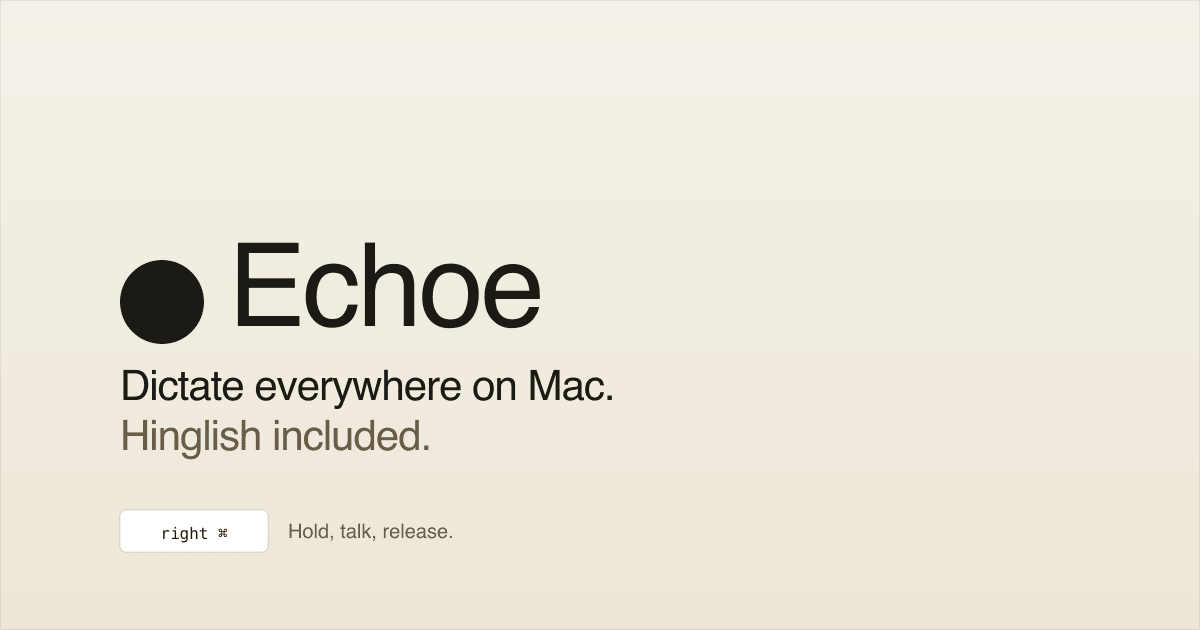
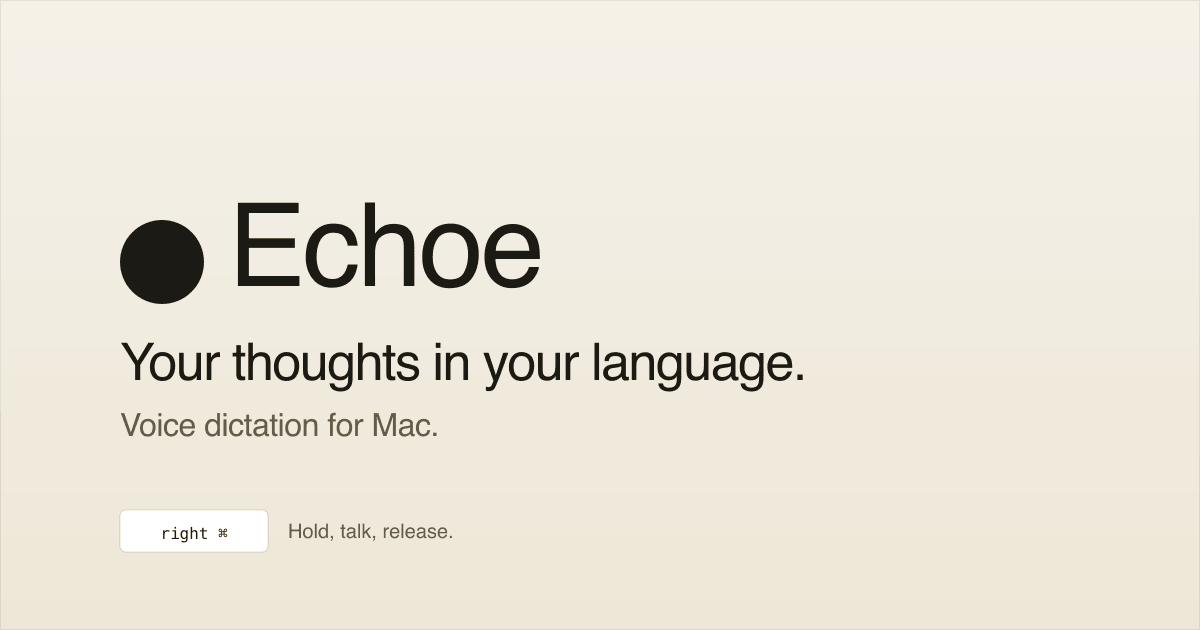
feat: lock canonical tagline + UI polish + drop FAQ
- Tagline "Your thoughts in your language." threaded through <title>,
  OG/Twitter title + description, OG image (regenerated).
- Hero H2 second clause swapped to the canonical tagline.
- Eyebrow + footer keep "Don't whisper..." as brand flavor.
- Pricing: add Pro Weekly tier (Free → Weekly → Monthly → Yearly).
- Mechanic + Pricing: explicit responsive grids prevent orphaned 4th
  cards. Pricing is 4-up at desktop, 2x2 at tablet, stacked on mobile.
- Card border bumped to --hairline-stronger; Card bg → --ivory so
  cards contrast with the parchment section.
- Drop FAQ section for now (component kept in Rest.jsx for restore).

Changed region(s): [[0.0925, 0.3016, 0.6783, 0.6333], [0.0925, 0.6635, 0.37, 0.7238]]

diff --git a/index.html b/index.html
@@ -3,7 +3,7 @@
 <head>
   <meta charset="utf-8">
   <meta name="viewport" content="width=device-width, initial-scale=1, viewport-fit=cover">
-  <title>Echoe. Dictate everywhere on Mac. Hinglish included.</title>
+  <title>Echoe — Your thoughts in your language. Voice dictation for Mac.</title>
   <meta name="description" content="A voice dictation app for Mac that doesn't auto-translate you to English. Hold right ⌘, talk, let go. Slack, Linear, Gmail, anywhere you type.">
 
   <link rel="canonical" href="https://echoeapp.com/">
@@ -11,16 +11,16 @@
 
   <meta property="og:type" content="website">
   <meta property="og:url" content="https://echoeapp.com/">
-  <meta property="og:title" content="Echoe. Dictate everywhere on Mac. Hinglish included.">
-  <meta property="og:description" content="A voice dictation app for Mac that doesn't auto-translate you to English. Hold right ⌘, talk, let go.">
+  <meta property="og:title" content="Echoe — Your thoughts in your language.">
+  <meta property="og:description" content="Your thoughts in your language. Voice dictation for Mac.">
   <meta property="og:image" content="https://echoeapp.com/og-image.png">
   <meta property="og:image:width" content="1200">
   <meta property="og:image:height" content="630">
 
   <meta name="twitter:card" content="summary_large_image">
   <meta name="twitter:url" content="https://echoeapp.com/">
-  <meta name="twitter:title" content="Echoe. Dictate everywhere on Mac. Hinglish included.">
-  <meta name="twitter:description" content="A voice dictation app for Mac that doesn't auto-translate you to English. Hold right ⌘, talk, let go.">
+  <meta name="twitter:title" content="Echoe — Your thoughts in your language.">
+  <meta name="twitter:description" content="Your thoughts in your language. Voice dictation for Mac.">
   <meta name="twitter:image" content="https://echoeapp.com/og-image.png">
 
   <style>
@@ -33,6 +33,27 @@
     @media (max-width: 720px) { section { padding: 72px 0; } }
     .container { width: 100%; max-width: 1180px; margin: 0 auto; padding: 0 32px; }
     @media (max-width: 720px) { .container { padding: 0 22px; } }
+
+    /* 2x2 on desktop, 1 col on mobile. Prevents an orphaned 4th card. */
+    .mechanic-grid {
+      display: grid; gap: 16px;
+      grid-template-columns: repeat(2, minmax(0, 1fr));
+    }
+    @media (max-width: 720px) {
+      .mechanic-grid { grid-template-columns: 1fr; }
+    }
+
+    /* 4-up on desktop, 2x2 on tablet, stacked on mobile. */
+    .pricing-grid {
+      display: grid; gap: 16px;
+      grid-template-columns: repeat(4, minmax(0, 1fr));
+    }
+    @media (max-width: 1080px) {
+      .pricing-grid { grid-template-columns: repeat(2, minmax(0, 1fr)); }
+    }
+    @media (max-width: 540px) {
+      .pricing-grid { grid-template-columns: 1fr; }
+    }
 
     .eyebrow {
       font: 500 11px/1.4 var(--font-ui); letter-spacing: 0.14em;

diff --git a/src/components/Rest.jsx b/src/components/Rest.jsx
@@ -17,10 +17,7 @@ export const MechanicSectionEN = () => (
         </p>
       </div>
 
-      <div style={{
-        marginTop: 56, display: 'grid',
-        gridTemplateColumns: 'repeat(auto-fit, minmax(280px, 1fr))', gap: 16,
-      }}>
+      <div className="mechanic-grid" style={{ marginTop: 56 }}>
         <Card>
           <div className="eyebrow" style={{ color: 'var(--dust)', marginBottom: 16 }}>Step 01</div>
           <div style={{ font: '500 22px/1.25 var(--font-ui)', color: 'var(--ink)', letterSpacing: '-0.015em', marginBottom: 14 }}>Hold a hotkey.</div>
@@ -83,9 +80,10 @@ export const MechanicSectionEN = () => (
 );
 
 const PRICES_EN = [
-  { id: 'free',  label: 'Free',          price: '₹0',     suffix: '',         tag: '5 dictations a day',         blurb: 'Enough to know whether Echoe is for you.' },
-  { id: 'month', label: 'Pro · Monthly', price: '₹399',   suffix: '/ month',  tag: '₹13 / day. Less than a chai.', blurb: 'The default. For anyone using Echoe daily.', highlight: true },
-  { id: 'year',  label: 'Pro · Yearly',  price: '₹3,999', suffix: '/ year',   tag: 'Roughly two months free',    blurb: 'Best value, billed once.' },
+  { id: 'free',  label: 'Free',          price: '₹0',     suffix: '',         tag: '5 dictations a day',           blurb: 'Enough to know whether Echoe is for you.' },
+  { id: 'week',  label: 'Pro · Weekly',  price: '₹100',   suffix: '/ week',   tag: 'Try it now',                    blurb: 'Full Pro, billed weekly. The cheapest way to see if it sticks.' },
+  { id: 'month', label: 'Pro · Monthly', price: '₹399',   suffix: '/ month',  tag: '₹13 / day. Less than a chai.',  blurb: 'The default. For anyone using Echoe daily.', highlight: true },
+  { id: 'year',  label: 'Pro · Yearly',  price: '₹3,999', suffix: '/ year',   tag: 'Roughly two months free',       blurb: 'Best value, billed once.' },
 ];
 
 export const PricingSectionEN = () => (
@@ -98,13 +96,13 @@ export const PricingSectionEN = () => (
         </h2>
         <p className="lede">No trial-expiry pressure. No credit card upfront. The free plan is yours to keep.</p>
       </div>
-      <div style={{ marginTop: 56, display: 'grid', gridTemplateColumns: 'repeat(auto-fit, minmax(240px, 1fr))', gap: 16 }}>
+      <div className="pricing-grid" style={{ marginTop: 56 }}>
         {PRICES_EN.map(p => (
           <div key={p.id} style={{
             padding: 28,
             background: p.highlight ? 'var(--ink)' : 'var(--ivory)',
             color: p.highlight ? 'var(--ivory)' : 'var(--ink)',
-            border: `0.5px solid ${p.highlight ? 'var(--ink)' : 'var(--hairline)'}`,
+            border: `0.5px solid ${p.highlight ? 'var(--ink)' : 'var(--hairline-stronger)'}`,
             borderRadius: 14, position: 'relative',
             display: 'flex', flexDirection: 'column', gap: 14,
           }}>

diff --git a/src/components/Hero.jsx b/src/components/Hero.jsx
@@ -177,7 +177,7 @@ export const HeroEN = () => {
             font: '500 clamp(20px, 2.6vw, 28px)/1.22 var(--font-ui)',
             letterSpacing: '-0.02em', color: 'var(--ink)', textWrap: 'balance',
           }}>
-            One hotkey. Any app. <span style={{ color: 'var(--sepia)' }}>Speak the way you actually talk —</span>code-switching included.
+            One hotkey. Any app. <span style={{ color: 'var(--sepia)' }}>Your thoughts in your language.</span>
           </h2>
           <p className="lede">
             Hold right ⌘ (your hotkey), say what you mean, let go. Echoe transcribes, cleans up filler, and inserts text into Slack, WA, Gmail, Figma, anywhere your cursor is. Input in Native, English, or mix it up. Get the output in English, code-mix, or Native.

diff --git a/src/components/Shared.jsx b/src/components/Shared.jsx
@@ -259,8 +259,8 @@ export const useTypewriter = (fullText, { speed = 28, pauseAt = [], play = true,
 // ============================================================================
 export const Card = ({ children, tinted = false, style = {} }) => (
   <div style={{
-    background: tinted ? 'var(--tint-terracotta-fill)' : 'var(--parchment)',
-    border: `0.5px solid ${tinted ? 'var(--tint-terracotta-border)' : 'var(--hairline)'}`,
+    background: tinted ? 'var(--tint-terracotta-fill)' : 'var(--ivory)',
+    border: `0.5px solid ${tinted ? 'var(--tint-terracotta-border)' : 'var(--hairline-stronger)'}`,
     borderRadius: 14, padding: 28, ...style,
   }}>{children}</div>
 );

diff --git a/src/App.jsx b/src/App.jsx
@@ -3,7 +3,7 @@
 import { NavEN, HeroEN } from './components/Hero.jsx';
 import { DemoSectionEN } from './components/Demo.jsx';
 import { WedgeSectionEN } from './components/Wedge.jsx';
-import { MechanicSectionEN, PricingSectionEN, FAQSectionEN, FinalCTAEN, FooterEN } from './components/Rest.jsx';
+import { MechanicSectionEN, PricingSectionEN, FinalCTAEN, FooterEN } from './components/Rest.jsx';
 
 export default function App() {
   return (
@@ -14,7 +14,6 @@ export default function App() {
       <WedgeSectionEN />
       <MechanicSectionEN />
       <PricingSectionEN />
-      <FAQSectionEN />
       <FinalCTAEN />
       <FooterEN />
     </>
